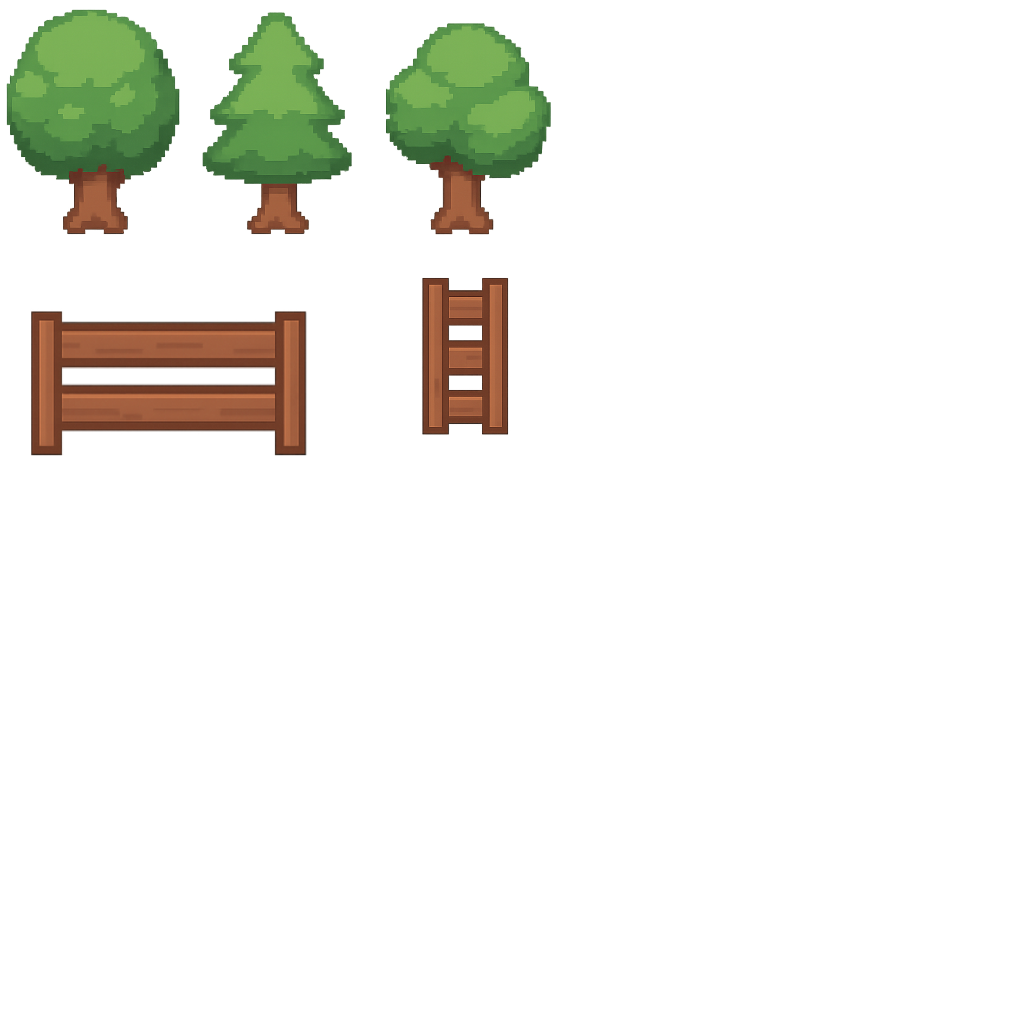
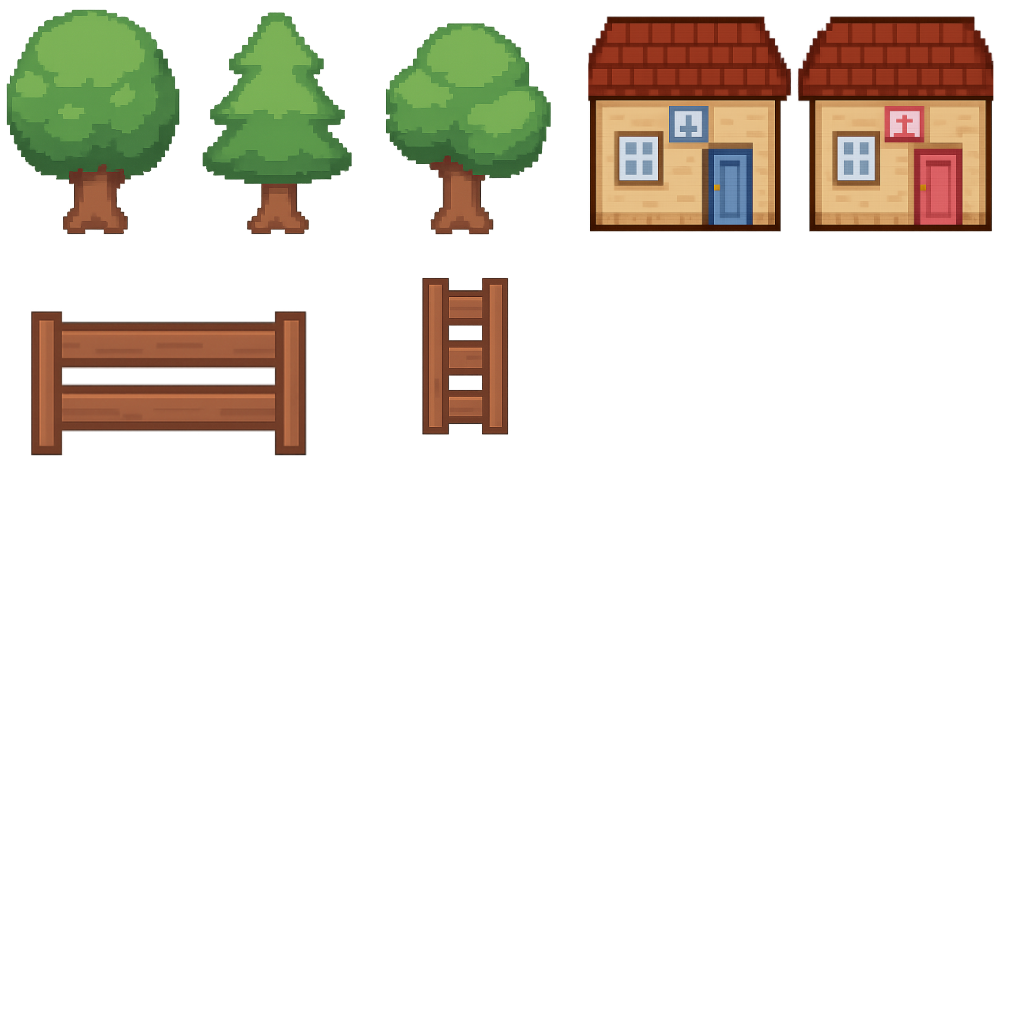
houses

Changed region(s): [[0.5625, 0.0, 0.9688, 0.25]]

diff --git a/v2/src/draw.js b/v2/src/draw.js
@@ -329,12 +329,14 @@ const animateTeamSwitcher = button => {
     button.visible = game === games.vip
 }
 
-const createTeamSwitcher = (app, props, lobbyContainer) => {
+const createTeamSwitcher = (app, props, lobbyContainer, spriteSheets) => {
     const {x, y, team} = props
     const width = 128
     const height = 128
     const newX = x - width/2
     const newY = y - height/2
+
+    const buttonContainer = new PIXI.Container()
 
     const button = new PIXI.Graphics()
     .rect(newX, newY, width, height)
@@ -342,27 +344,30 @@ const createTeamSwitcher = (app, props, lobbyContainer) => {
     button.execute = () => button.playersNear.forEach(f => switchTeam(f, team)) 
     button.isInArea = f => stage === stages.gameLobby && game === games.vip && new PIXI.Rectangle(newX, newY, width, height).contains(f.x, f.y+f.bodyHeight*0.5)
 
-    lobbyContainer.addChild(button)
+    const house = createSpriteWithShadowContainer(spriteSheets.fence.textures['house_' + team],{x:1, y:0.9}, {x:1, y:1}, {x: newX + width*0.5, y: newY+ height*0.9}, {x: 0.5, y: 0.9})
+    house.scale.set(0.75)
+    buttonContainer.addChild(button, house)
+    lobbyContainer.addChild(buttonContainer)
 
-    app.ticker.add(() => animateTeamSwitcher(button))
+    app.ticker.add(() => animateTeamSwitcher(buttonContainer))
 
     return button
 }
 
-const addTeamSwitchers = (app, lobbyContainer) => {
-    Object.entries(teamSwitchersDefinition()).forEach(([id, button]) => {buttons[id] = createTeamSwitcher(app, button, lobbyContainer)})
+const addTeamSwitchers = (app, lobbyContainer, spriteSheets) => {
+    Object.entries(teamSwitchersDefinition()).forEach(([id, button]) => {buttons[id] = createTeamSwitcher(app, button, lobbyContainer, spriteSheets)})
 }
 
 const animateLobbyItems = lobbyContainer => {
     lobbyContainer.visible = stage === stages.startLobby || stage === stages.gameLobby
 }
 
-const addLobbyItems = app => {
+const addLobbyItems = (app, spriteSheets) => {
     const lobbyContainer = new PIXI.Container()
     addGameSelection(app, lobbyContainer)
     addGameStartButton(app, lobbyContainer)
     addButtons(app, lobbyContainer)
-    addTeamSwitchers(app, lobbyContainer)
+    addTeamSwitchers(app, lobbyContainer, spriteSheets)
     addNetworkQrCode(app, lobbyContainer)
 
     const fontHeight = 32
@@ -611,9 +616,9 @@ const addGrass = () => {
 }
 
 
-const addLevelBoundary = (app, spritesheet) => {
-
-    const tree1 = createSpriteWithShadowContainer(spritesheet.textures['tree1'],{x:1, y:0.9}, {x:1, y:1}, {x: level.width * 0.1, y: level.height * 0.1}, {x: 0.5, y: 0.9})
+const addLevelBoundary = (app, spritesheets) => {
+    const spritesheet = spritesheets.fence
+    const tree1 = createSpriteWithShadowContainer(spritesheet.textures['tree1'],{x:1, y:0.9}, {x:1, y:1}, {x: level.width * 0.2, y: level.height * 0.1}, {x: 0.5, y: 0.9})
     const tree2 = createSpriteWithShadowContainer(spritesheet.textures['tree2'],{x:1, y:0.9}, {x:1, y:1}, {x: level.width * 0.8, y: level.height * 0.6}, {x: 0.5, y: 0.9})
     const tree3 = createSpriteWithShadowContainer(spritesheet.textures['tree3'],{x:1, y:0.9}, {x:1, y:1}, {x: level.width * 0.9, y: level.height * 0.9}, {x: 0.5, y: 0.9})
     

diff --git a/v2/src/game.js b/v2/src/game.js
@@ -179,6 +179,12 @@ const fenceAtlasData = {
       },
       "fence_vertical": {
         "frame": { "x": 420, "y": 282, "w": 121, "h": 201 },
+      },
+      "house_assassin": {
+        "frame": { "x": 584, "y": 0, "w": 211, "h": 236 },
+      },
+      "house_guard": {
+        "frame": { "x": 795, "y": 0, "w": 205, "h": 236 },
       }
     },
     "meta": {
@@ -383,9 +389,9 @@ const debugLayer = new PIXI.RenderLayer({sortableChildren: true});
         app.stage.addChild(levelContainer, figureShadowLayer, figureLayer, cloudLayer, scoreLayer, overlayLayer, debugLayer)
         addGrass();
         addHeadline();
-        addLobbyItems(app);
+        addLobbyItems(app, spriteSheets);
         addFoods(app, spriteSheets.food);
-        addLevelBoundary(app, spriteSheets.fence);
+        addLevelBoundary(app, spriteSheets);
         addFigures(app, spriteSheets.figure);
         addWinningCeremony(app);
         addOverlay(app)
